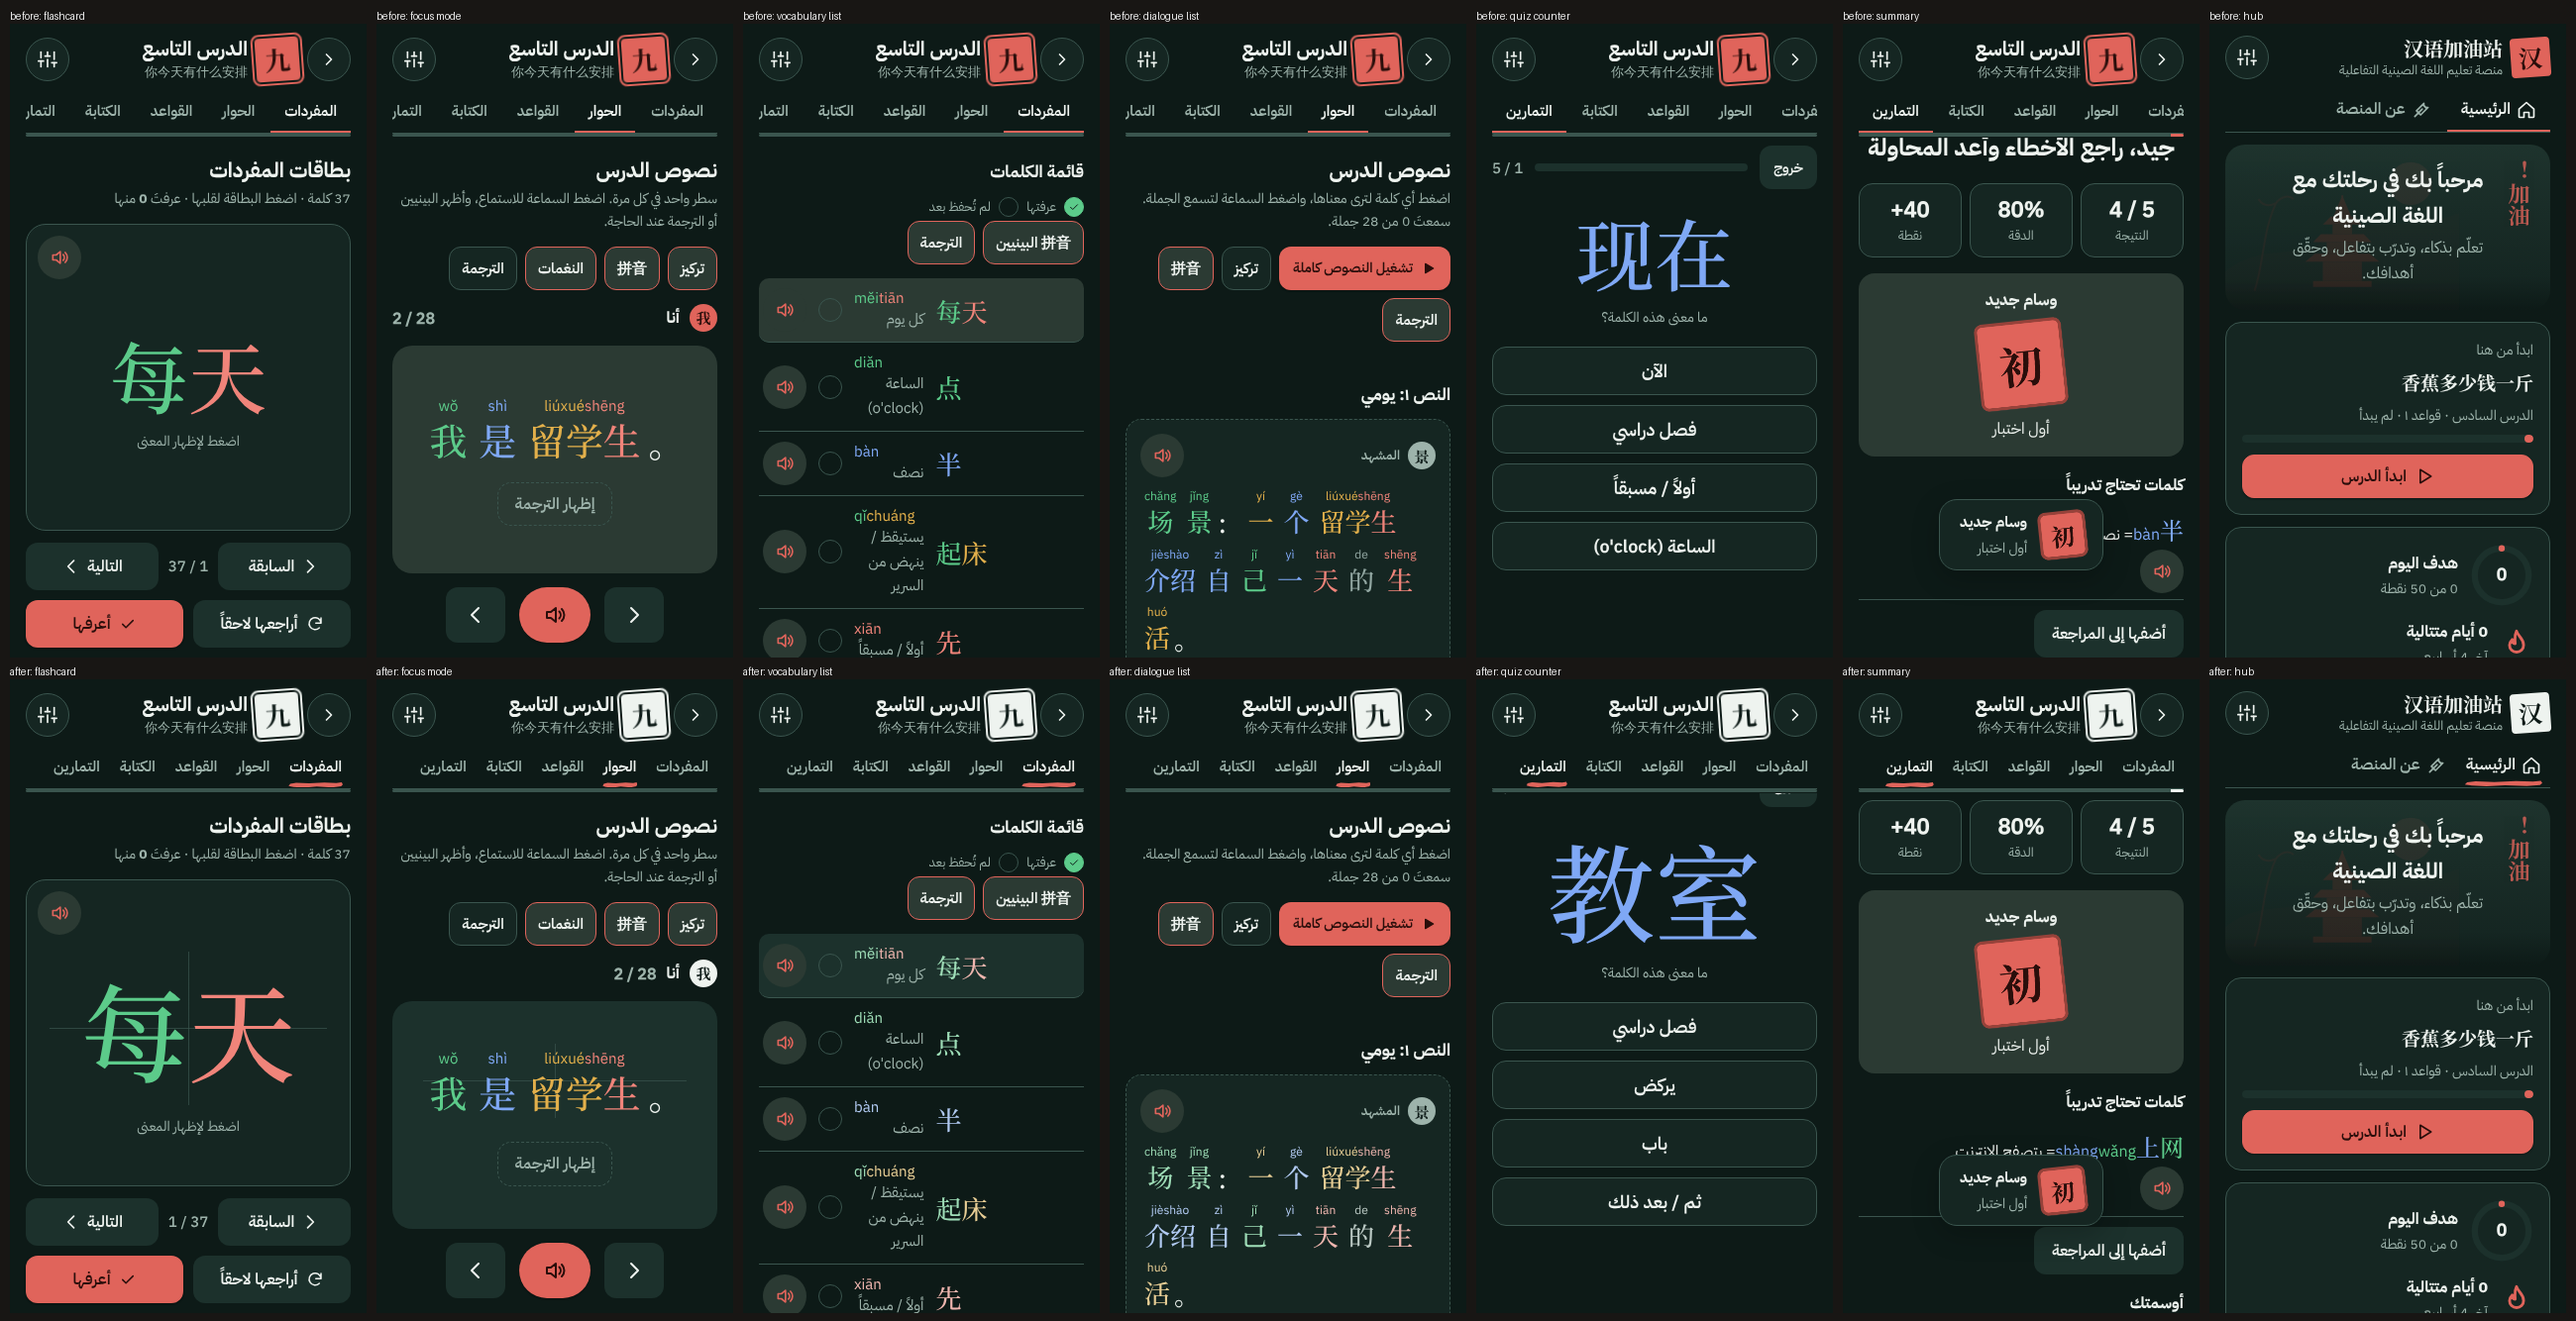
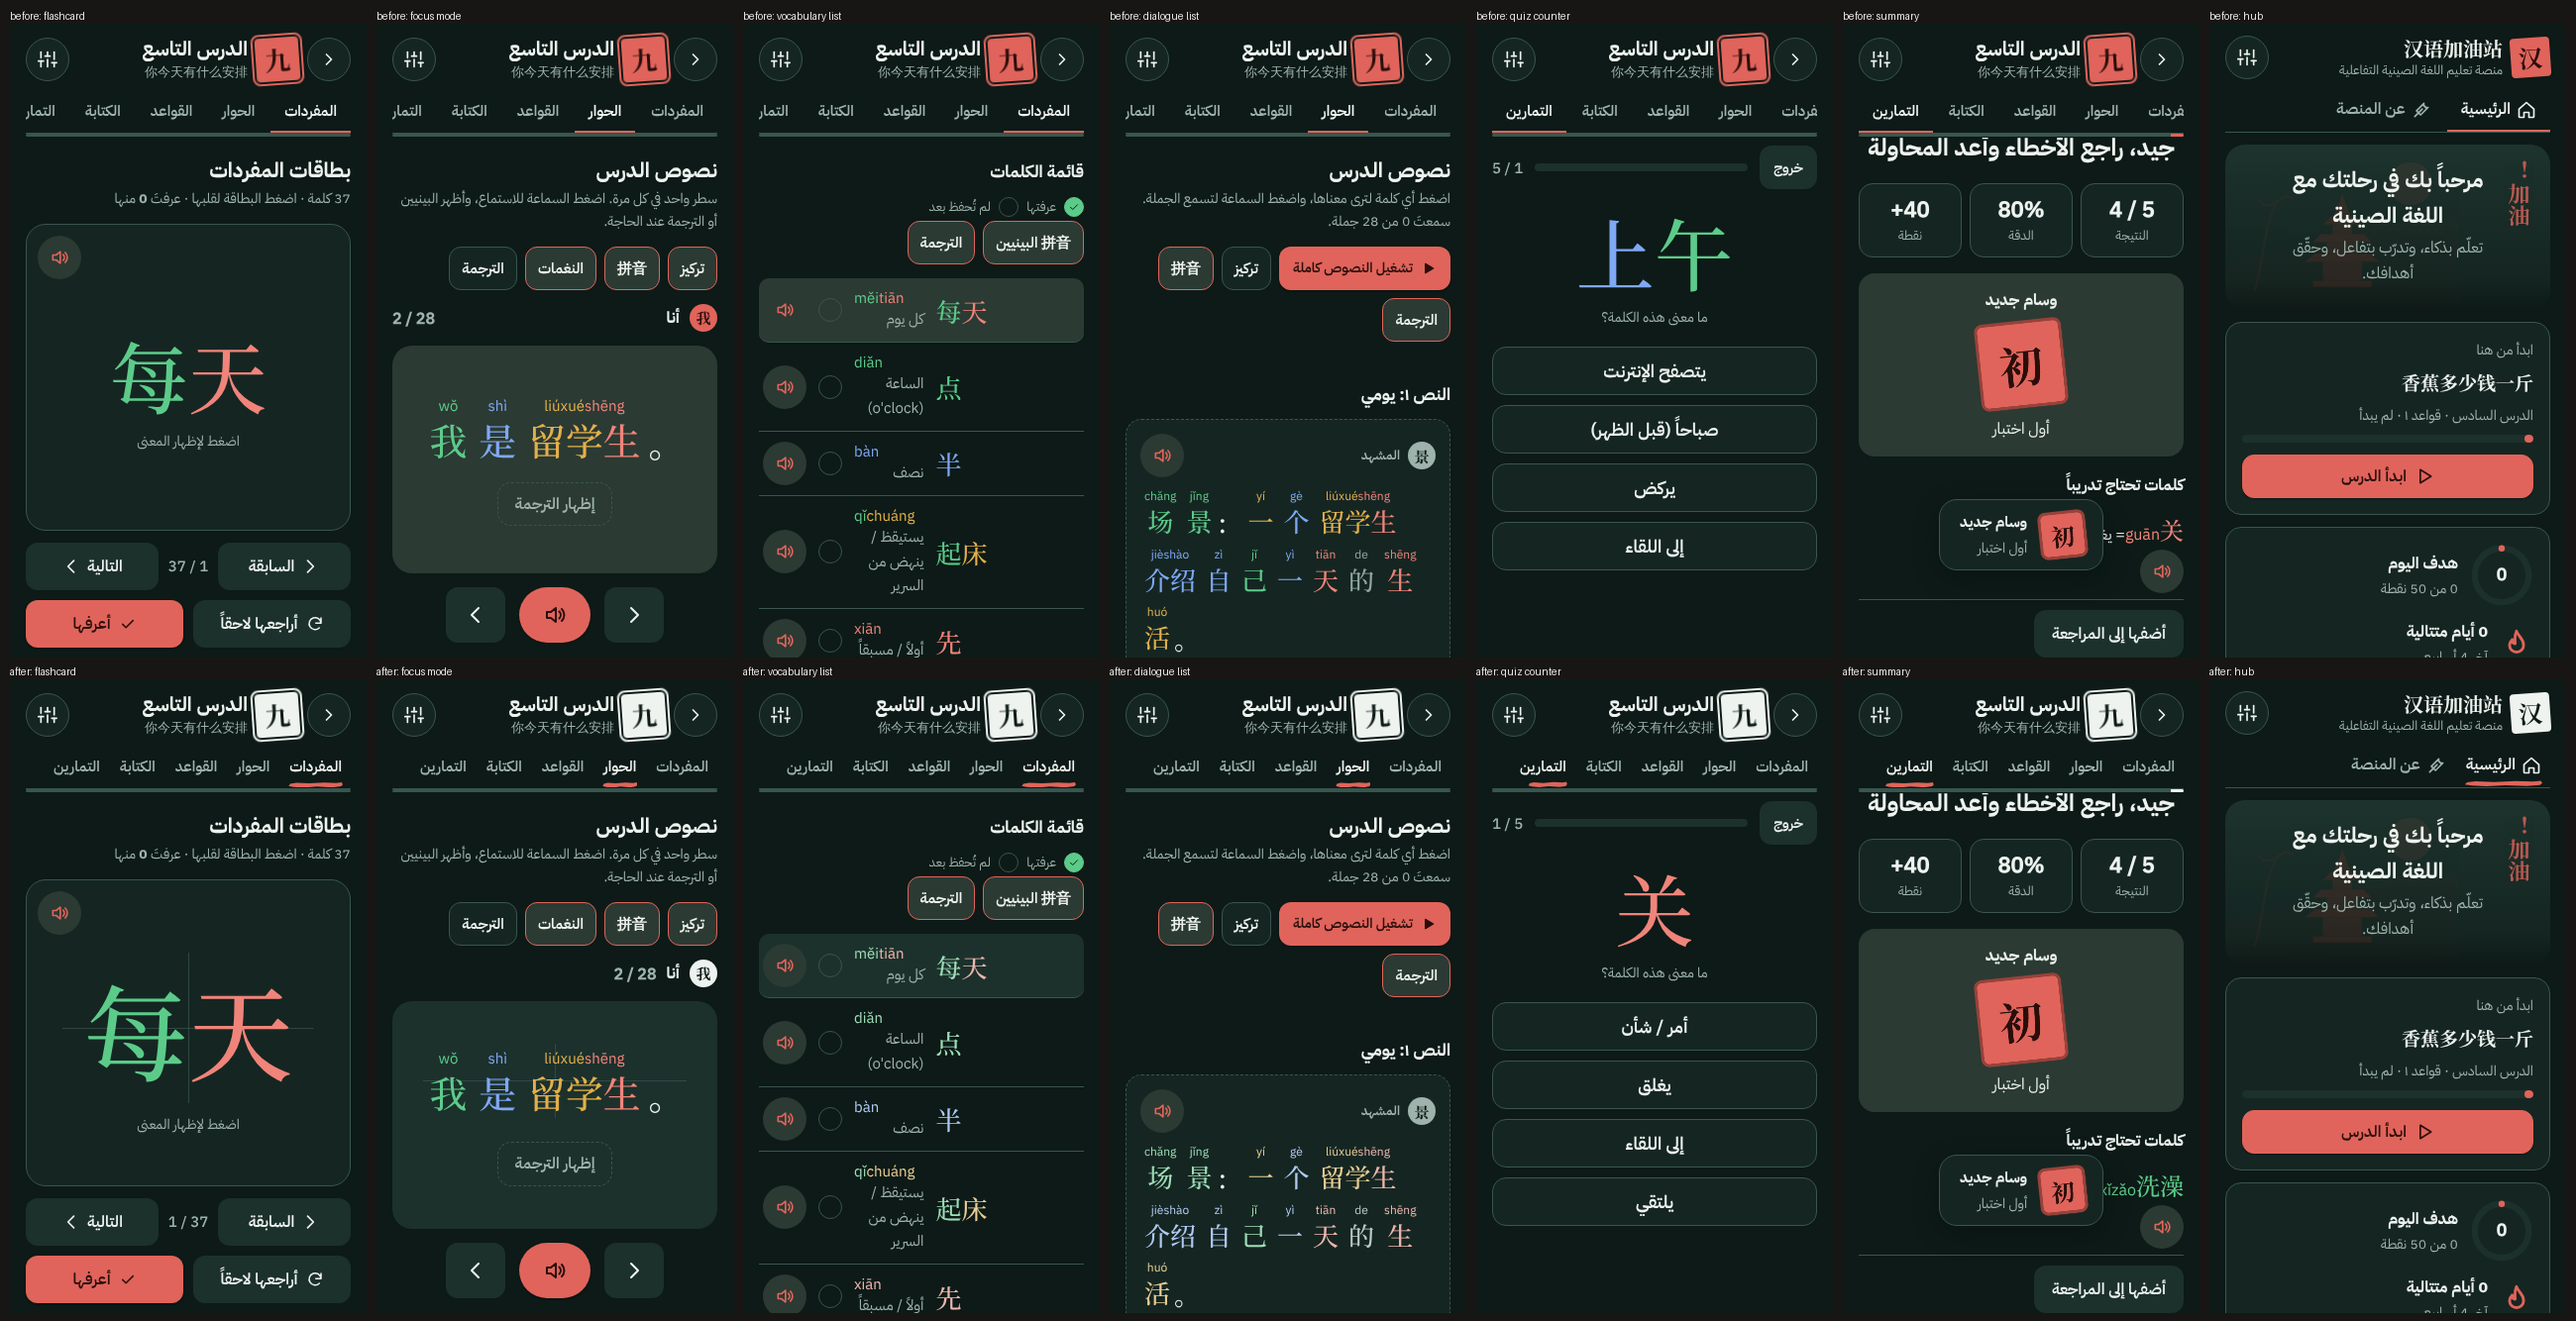
Phase 6b: README section, refreshed screenshots
Claude-Session: https://claude.ai/code/session_01Y3ehy95n2BwDU97HGsHF3Y

diff --git a/tools/README.md b/tools/README.md
@@ -166,3 +166,12 @@ Lesson 7 uses only the site's own drawn SVG icons (`ICON`, `WORDPIC`, `PICQ`, `p
 - **Reduced motion:** the global rule in `zh-ui.css` removes animation durations; the flashcard falls back to the plain switch.
 - Test: `node tools/lsn3/t13.js [page]` (default `lesson-9.html`; also run on `lesson-7.html`, `prac-6.html`, `lis-6.html`). `parity.js` now opens pages with reduced motion and hides the new focus chip and the 'عرفتها' legend before comparing.
 
+## Visual identity (Phase 6b)
+All in `zh-ui.css` (shared by hub and lessons; tests in `tools/lsn3/t14.js`).
+- **Counters** (`.cnt`, `#qcount`) are isolated left-to-right runs, so RTL pages print "1 / 5", not "5 / 1". Five tabs fit a 360px screen (tab padding 9px under 420px); culture pages (7 tabs) still scroll.
+- **Brush underline** under the active tab (`.tabs .tab[aria-selected=true]::after`, clip-path shape, drawn from the right; the global reduced-motion rule makes it instant).
+- **Paper texture:** `--paper`, a 160px inline SVG noise (about 600 bytes, alpha .075), light theme only (`none` in dark). Worst-case contrast with the texture is part of t14.
+- **Calligraphy sheet:** flashcard front character `clamp(48px, min(30vw, (100vw-96px)/(n+.5)), 132px)` where `--n` is the character count (set by the template, so long words shrink instead of overflowing), faint cross guide lines, 64px space above; the focus-mode line has the same guide. Same serif stack as before (`--font-han`), no webfonts.
+- **One loud colour:** the red is used for the primary button, the active tab brush and earned badges; the header seal and progress bars are ink, current rows / speaker highlights are neutral, the comprehensive-quiz card has a red border instead of a red fill.
+- **Tone colours:** muted (55% tone, 45% text colour) inside `.row` and `.line` lists, full on the flashcard and the focus line. Modes `marks` and `numbers` keep `color: inherit` everywhere (not muted).
+
